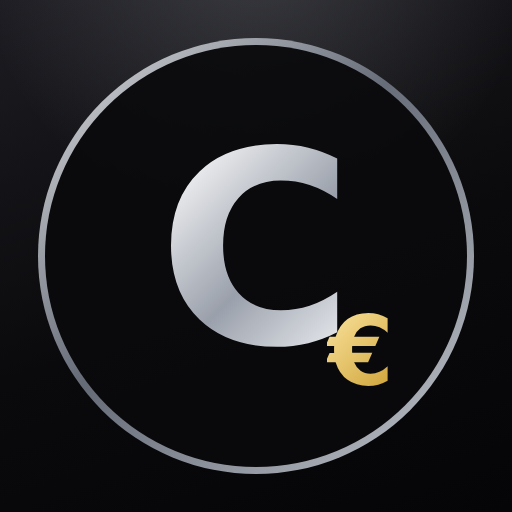
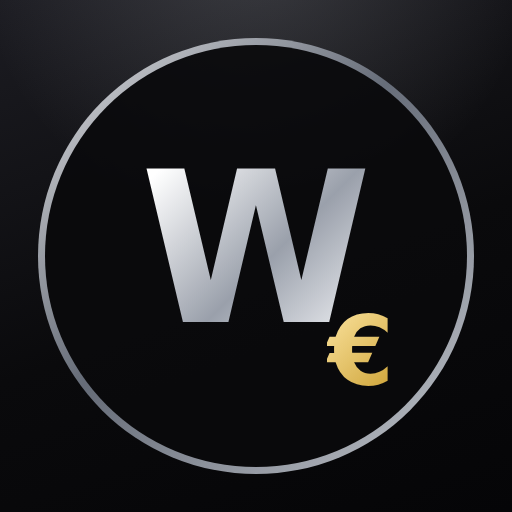
La app pasa a llamarse WanderContable
- Nuevo nombre en la cabecera, pantalla de bloqueo, título de la
  página, manifest (nombre e icono de instalación), sección Acerca de
  y README
- Iconos regenerados con el monograma W plateado y el euro dorado
- Titulares ajustados para que el nombre largo quepa en pantallas
  estrechas; etiqueta apple-mobile-web-app-title para iPhone

Claude-Session: https://claude.ai/code/session_01DkmkjVDY7skp6Kp8GkoFuf

Changed region(s): [[0.2812, 0.2812, 0.7188, 0.6875]]

diff --git a/index.html b/index.html
@@ -4,7 +4,8 @@
 <meta charset="UTF-8">
 <meta name="viewport" content="width=device-width, initial-scale=1.0, maximum-scale=1.0, user-scalable=no">
 <meta name="theme-color" content="#0a0a0c">
-<title>CONTABLE — Control de gastos y facturación</title>
+<title>WanderContable — Control de gastos y facturación</title>
+<meta name="apple-mobile-web-app-title" content="WanderContable">
 <link rel="manifest" href="manifest.json">
 <link rel="preconnect" href="https://fonts.googleapis.com">
 <link rel="preconnect" href="https://fonts.gstatic.com" crossorigin>
@@ -19,7 +20,7 @@
 <div id="lock-screen" class="lock hidden">
   <div class="lock-box">
     <div class="lock-icono">🔐</div>
-    <h1>CONTABLE</h1>
+    <h1>WANDERCONTABLE</h1>
     <p>Introduce tu PIN para entrar</p>
     <input type="password" id="lock-pin" inputmode="numeric" maxlength="8" autocomplete="off" placeholder="••••">
     <button class="btn btn-primary btn-big" id="lock-entrar">Entrar</button>
@@ -30,7 +31,7 @@
 </div>
 
 <header class="app-header">
-  <h1>📒 CONTABLE</h1>
+  <h1>WANDERCONTABLE</h1>
   <p class="subtitle">Control de gastos y facturación del local</p>
 </header>
 
@@ -444,7 +445,7 @@
   </div>
   <div class="card">
     <h2>Acerca de</h2>
-    <p class="hint">CONTABLE — aplicación de control de gastos e ingresos para pequeños negocios. Los datos nunca salen de tu dispositivo. La lectura automática de las fotos (OCR) puede fallar: revisa siempre los datos antes de guardar.</p>
+    <p class="hint">WanderContable — aplicación de control de gastos e ingresos para pequeños negocios. Los datos nunca salen de tu dispositivo. La lectura automática de las fotos (OCR) puede fallar: revisa siempre los datos antes de guardar.</p>
   </div>
 </section>
 

diff --git a/css/styles.css b/css/styles.css
@@ -38,9 +38,9 @@ body {
   border-bottom: 1px solid var(--borde);
 }
 .app-header h1 {
-  font-size: 1.45rem;
+  font-size: 1.15rem;
   font-weight: 800;
-  letter-spacing: 5px;
+  letter-spacing: 3px;
   text-transform: uppercase;
   background: linear-gradient(135deg, #f4f5f7 20%, #8f96a3 60%, #d7dbe2 90%);
   -webkit-background-clip: text;
@@ -424,9 +424,9 @@ select { appearance: none; -webkit-appearance: none; }
 }
 .lock-icono { font-size: 2.4rem; margin-bottom: 8px; }
 .lock-box h1 {
-  font-size: 1.25rem;
+  font-size: 1.05rem;
   font-weight: 800;
-  letter-spacing: 5px;
+  letter-spacing: 3px;
   text-transform: uppercase;
   background: linear-gradient(135deg, #f4f5f7 20%, #8f96a3 60%, #d7dbe2 90%);
   -webkit-background-clip: text;

diff --git a/js/seguridad.js b/js/seguridad.js
@@ -119,7 +119,7 @@ const SEGURIDAD = (() => {
     const cred = await navigator.credentials.create({
       publicKey: {
         challenge: crypto.getRandomValues(new Uint8Array(32)),
-        rp: { name: 'CONTABLE', id: location.hostname },
+        rp: { name: 'WanderContable', id: location.hostname },
         user: {
           id: crypto.getRandomValues(new Uint8Array(16)),
           name: 'contable',

diff --git a/sw.js b/sw.js
@@ -1,7 +1,7 @@
 /* CONTABLE — service worker: permite abrir la app sin conexión
    (los datos ya viven en el dispositivo; esto cachea la propia app). */
 
-const CACHE = 'contable-v9';
+const CACHE = 'contable-v10';
 const ARCHIVOS = [
   './',
   './index.html',

diff --git a/README.md b/README.md
@@ -1,4 +1,4 @@
-# 📒 CONTABLE — Control de gastos y facturación del local
+# WanderContable — Control de gastos y facturación del local
 
 Aplicación web para llevar el control de **gastos (facturas de proveedores)** e **ingresos (cierres diarios de caja)** de un pequeño negocio, pensada para preparar la información que se envía a la gestoría cada trimestre.
 
